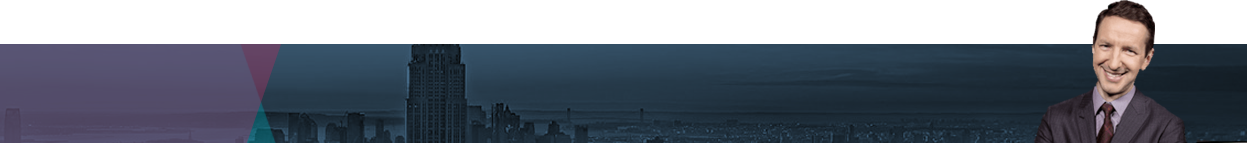
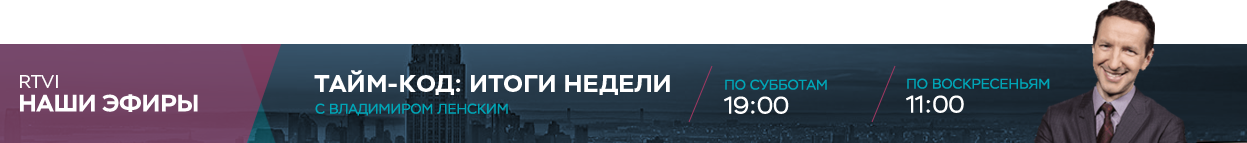
Адаптив главной, передлка блок с баннерами-превью

diff --git a/public/app/front-react/shared/components/HomePage/BannerPreview/index.jsx b/public/app/front-react/shared/components/HomePage/BannerPreview/index.jsx
@@ -7,49 +7,11 @@ function BannerPreview({ className }) {
 
     return (
         <div className={classNames('banner-preview', className)}>
-            <img className="banner-preview__img" src="/content/banner/banner.png" alt="" role="presentation" />
-            <div className="banner-preview__left-part">
-                <p className="banner-preview__title-group">
-                    RTVI
-                </p>
-                <p className="banner-preview__subtitle-group">
-                    Наши эфиры
-                </p>
-            </div>
-            <div className="banner-preview__right-part">
-                <div className="banner-preview__wrapper">
-                    <div className="banner-preview__part-title">
-                        <p className="banner-preview__title-programm">
-                            Тайм код: итоги недели
-                        </p>
-                        <p className="banner-preview__subtitle-programm">
-                            С Владимиром Ленским
-                        </p>
-                    </div>
-                    <div className="banner-preview__delimeter banner-preview__delimeter banner-preview__delimeter_one">
-                        <img src="/content/banner/delimeter.png" alt="" role="presentation" />
-                    </div>
-                    <div className="banner-preview__part-time banner-preview__part-time banner-preview__part-time_one">
-                        <p className="banner-preview__programm-title">
-                            По субботам
-                        </p>
-                        <p className="banner-preview__programm-time">
-                            19:00
-                        </p>
-                    </div>
-                    <div className="banner-preview__delimeter banner-preview__delimeter banner-preview__delimeter_two">
-                        <img src="/content/banner/delimeter.png" alt="" role="presentation" />
-                    </div>
-                    <div className="banner-preview__part-time">
-                        <p className="banner-preview__programm-title">
-                            По воскресеньям
-                        </p>
-                        <p className="banner-preview__programm-time">
-                            11:00
-                        </p>
-                    </div>
-                </div>
-            </div>
+            <picture>
+                <source srcSet="/content/banner/banner-tablet-landscape.png" media="(max-width: 1559px)"/>
+                <source srcSet="/content/banner/banner.png" media="(min-width: 1600px)"/>
+                <img src="/content/banner/banner.png" alt="" role="presentation"/>
+            </picture>
         </div>
     )
 }

diff --git a/public/app/front-react/shared/components/HomePage/BannerPreview/style.scss b/public/app/front-react/shared/components/HomePage/BannerPreview/style.scss
@@ -16,8 +16,14 @@
         bottom: 0;
         left: 0;
 
-        width: rem(1247);
-        height: rem(143);
+        @include above($tabletLandscape) {
+            width: 100%;
+        }
+
+        @include above($desktop) {
+            width: rem(1247);
+            height: rem(143);
+        }
     }
 
     &__left-part,
@@ -25,7 +31,13 @@
         position: relative;
         z-index: 1;
 
-        padding-top: rem(47);
+        @include above($tabletLandscape) {
+            padding-top: rem(24);
+        }
+
+        @include above($desktop) {
+            padding-top: rem(47);
+        }
     }
 
     &__left-part {
@@ -34,8 +46,16 @@
 
     &__right-part {
         box-sizing: content-box;
-        width: rem(736);
-        padding-right: rem(197);
+
+        @include above($tabletLandscape) {
+            width: rem(282);
+            padding-right: 0;
+        }
+
+        @include above($desktop) {
+            width: rem(736);
+            padding-right: rem(197);
+        }
     }
 
     &__title-group {
@@ -57,7 +77,11 @@
         flex-direction: row;
         flex-wrap: wrap;
         justify-content: flex-start;
-        width: rem(736);
+
+
+        @include above($desktop) {
+            width: rem(736);
+        }
     }
 
     &__subtitle-programm {
@@ -82,6 +106,14 @@
 
     &__delimeter {
 
+        @include above($tabletLandscape) {
+            display: none;
+        }
+
+        @include above($desktop) {
+            display: block;
+        }
+
         img {
             box-sizing: content-box;
             width: rem(25);
@@ -105,5 +137,13 @@
 
     &__part-time {
         margin-top: rem(12);
+
+        @include above($tabletLandscape) {
+            display: none;
+        }
+
+        @include above($desktop) {
+            display: block;
+        }
     }
 }

diff --git a/public/app/front-react/shared/components/HomePage/style.scss b/public/app/front-react/shared/components/HomePage/style.scss
@@ -1,4 +1,5 @@
 @import "~style/mixins";
+@import "~style/vars";
 
 .general-news {
 
@@ -12,7 +13,15 @@
     }
     // удалить позже
     &__left {
-        width: rem(915);
+
+
+        @include above($tabletLandscape) {
+            width: rem(615);
+        }
+
+        @include above($desktop) {
+            width: rem(915);
+        }
     }
 
     &__left_more {
@@ -20,7 +29,15 @@
     }
 
     &__middle {
-        width: 100%;
+
+        @include above($tabletLandscape) {
+            width: rem(615);
+        }
+
+        @include above($desktop) {
+            width: 100%;
+        }
+
     }
 
     &__right {
@@ -31,6 +48,18 @@
         display: flex;
         flex-direction: row;
         justify-content: space-between;
+
+        @include below($mobile) {
+            flex-wrap: wrap;
+        }
+
+        @include above($tablet) {
+            flex-wrap: wrap;
+        }
+
+        @include above($desktop) {
+            flex-wrap: nowrap;
+        }
 
         &.two-wrapper {
             margin-top: rem(16);
@@ -60,6 +89,11 @@
         min-height: rem(505);
         padding-top: rem(11);
         overflow: hidden;
+
+        @include below($tabletLandscape) {
+            width: 100%;
+            min-height: inherit;
+        }
     }
 
     &__info-noize {
@@ -161,8 +195,16 @@
     }
 
     &__banner-preview {
-        height: rem(145);
-        margin-top: rem(-20);
+
+
+        @include above($tabletLandscape) {
+            height: rem(122.5);
+        }
+
+        @include above($desktop) {
+            height: rem(145);
+            margin-top: rem(-21);
+        }
 
         &_war {
             margin-top: rem(-22);

diff --git a/public/app/front-react/shared/containers/App/style.scss b/public/app/front-react/shared/containers/App/style.scss
@@ -24,9 +24,20 @@ body {
 }
 
 html {
-    font-size: 1vw;
 
-    @include above(1600px) {
+    @include below($mobile) {
+        font-size: 5vw;
+    }
+
+    @include above($tablet) {
+        font-size: 2.222222222222222vw;
+    }
+
+    @include above($tabletLandscape) {
+        font-size: 1.544401544401544vw;
+    }
+
+    @include above($desktop) {
         font-size: 16px;
     }
 }
@@ -61,11 +72,29 @@ main {
     min-height: 100vh;
     display: flex;
     flex-direction: column;
+    overflow: hidden;
 }
 
 .container {
-    width: rem(1250);
     @include margin_x(auto);
+
+    @include below($mobile) {
+        width: 100%;
+        @include padding_x(#{rem(10)});
+    }
+
+    @include above($tablet) {
+        width: rem(615);
+    }
+
+    @include above($tabletLandscape) {
+        width: rem(930);
+    }
+
+    @include above($desktop) {
+        width: rem(1250);
+    }
+
 }
 
 .section-title {

diff --git a/public/app/front-react/shared/components/HomePage/BigNews/style.scss b/public/app/front-react/shared/components/HomePage/BigNews/style.scss
@@ -4,9 +4,6 @@
 .big-news {
     position: relative;
 
-    width: rem(617);
-    height: rem(505);
-
     &::before {
         content: '';
 
@@ -28,6 +25,17 @@
     &:hover::before {
         background: rgba(0,0,0,.3);
     }
+
+    @include above($tablet) {
+        width: rem(615);
+        height: rem(395);
+    }
+
+    @include above($desktop) {
+        width: rem(617);
+        height: rem(505);
+    }
+
 
     &__link {
         content: '';

diff --git a/public/app/front-react/shared/components/GeneralVideo/style.scss b/public/app/front-react/shared/components/GeneralVideo/style.scss
@@ -6,8 +6,6 @@
     overflow: hidden;
     transition: height .3s;
 
-    height: rem(593);
-
     &::before {
         content: '';
 
@@ -22,6 +20,15 @@
 
         background-color: rgba(0, 0, 0, .32);
     }
+
+    @include above($tabletLandscape) {
+        height: rem(530);
+    }
+
+    @include above($desktop) {
+        height: rem(593);
+    }
+
     &_play::before {
         display: none;
     }

diff --git a/public/app/front-react/shared/containers/App/common.scss b/public/app/front-react/shared/containers/App/common.scss
@@ -26,11 +26,6 @@ body {
 }
 
 html {
-    font-size: 1vw;
-
-    @include above(1600px) {
-        font-size: 16px;
-    }
 
     &.war {
 
@@ -67,10 +62,6 @@ main {
     main {
         padding-top: rem(113);
     }
-}
-.container {
-    width: rem(1250);
-    @include margin_x(auto);
 }
 
 .section-title {

diff --git a/public/app/front-react/shared/style/vars.scss b/public/app/front-react/shared/style/vars.scss
@@ -26,3 +26,8 @@ $box: #50687b;
 
 $stemReg: 'StemText Regular', sans-serif;
 $stemBold: 'StemText Bold', sans-serif;
+
+$mobile: 719px;
+$tablet: 720px;
+$tabletLandscape: 1036px;
+$desktop: 1600px;

diff --git a/public/app/front-react/shared/components/Header/style.scss b/public/app/front-react/shared/components/Header/style.scss
@@ -7,7 +7,7 @@
     top: 0;
     right: 0;
     left: 0;
-
+    width: 100%;
     background-color: $bg-gray;
 
     &_war:before {
